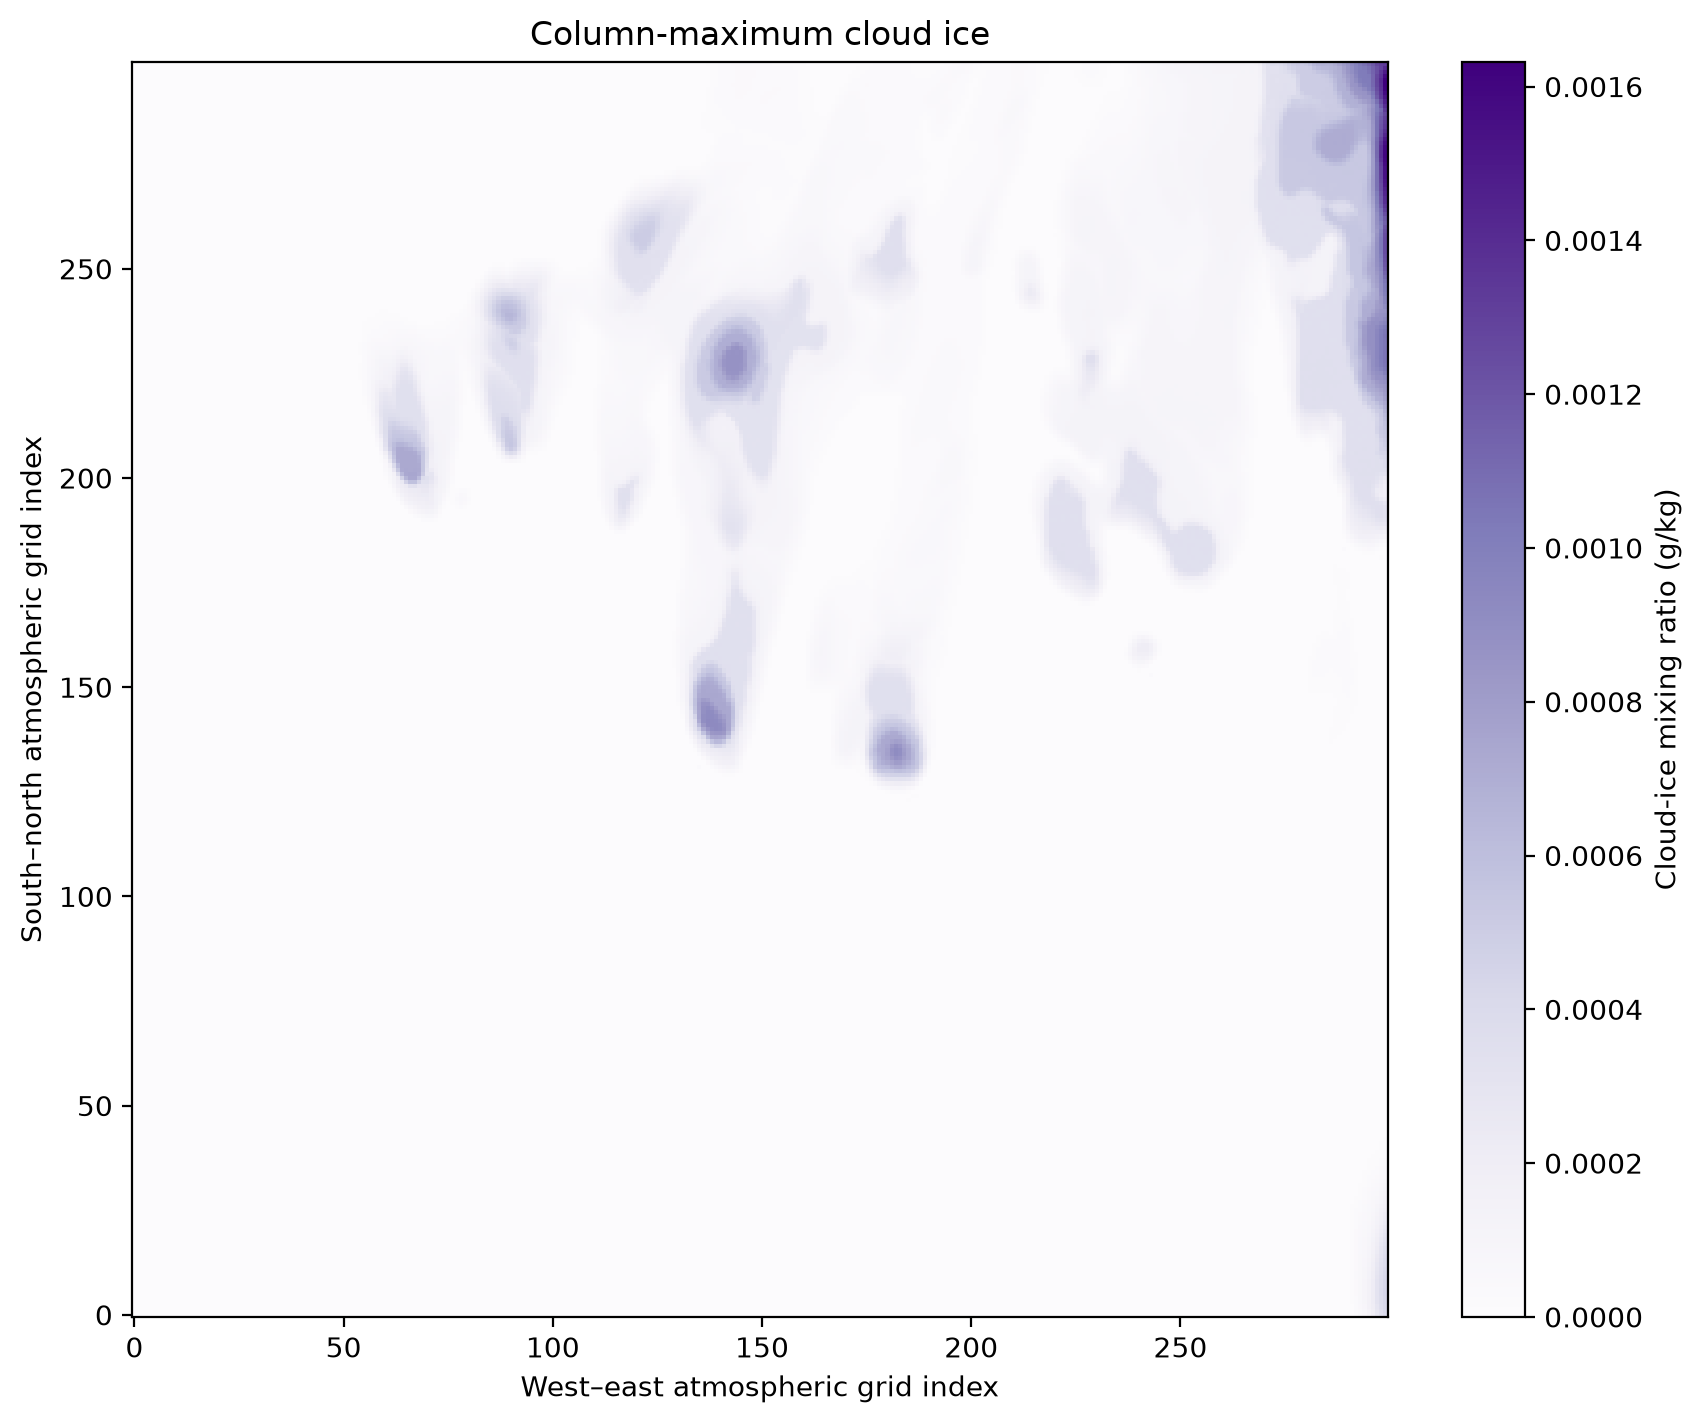
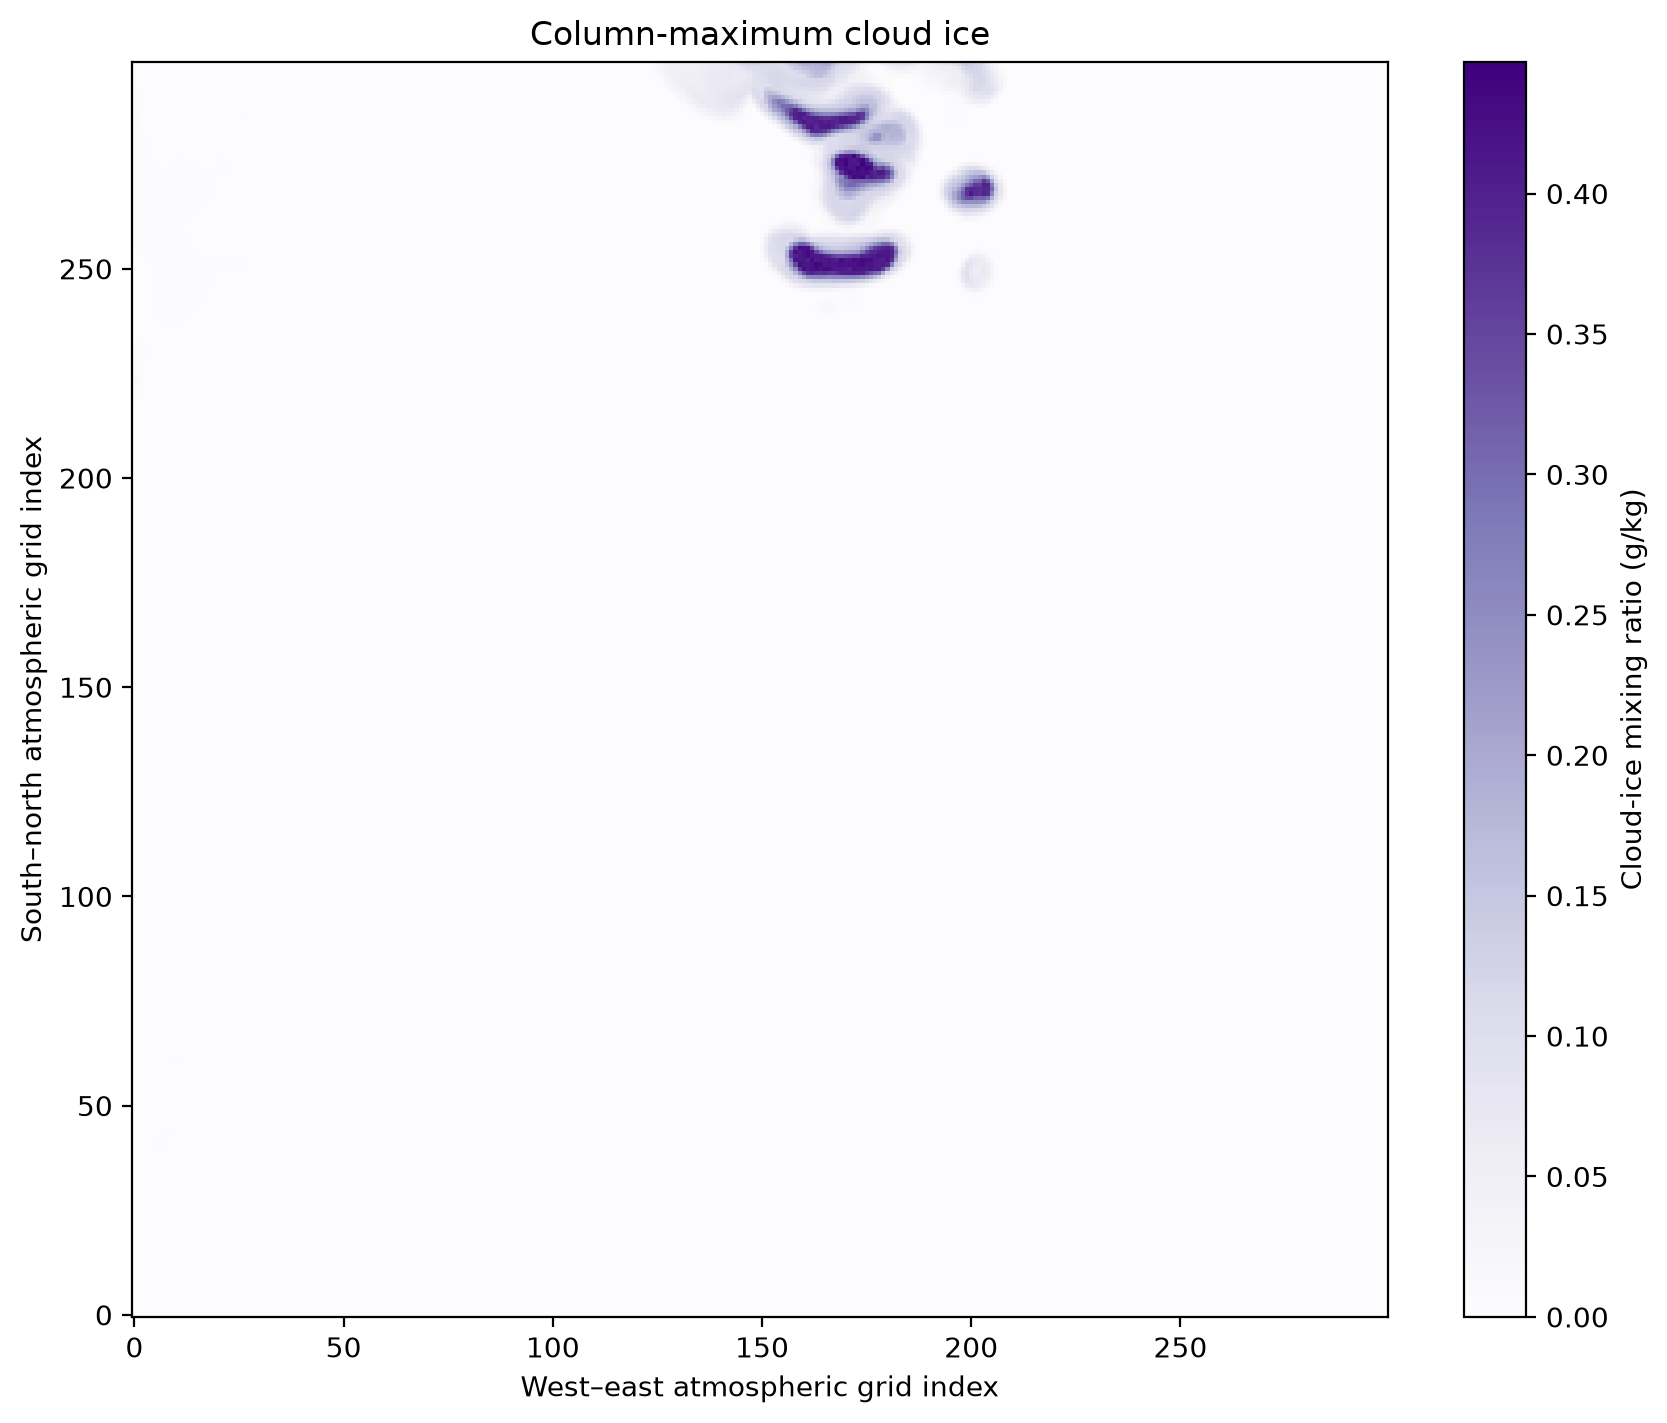
Re-did graphs + added cross sectional plots
Ran script on wrong sample

diff --git a/scripts/pyrocb_cross.py b/scripts/pyrocb_cross.py
@@ -1,0 +1,111 @@
+import xarray as xr
+import numpy as np
+import matplotlib.pyplot as plt
+
+filename = "wrfout_d03_last"
+time_index = 0
+y_index = 150
+# y_index = 100
+# y_index = 200
+
+with xr.open_dataset(filename) as ds:
+    snapshot = ds.isel(Time=time_index)
+    # print(snapshot["Times"].values)
+
+    # one row, all heights and x positions
+    w = (
+        snapshot["W"]
+        .isel(south_north=y_index)
+        .transpose("bottom_top_stag", "west_east")
+        .values
+    )
+
+    height = (
+        (
+            snapshot["PH"].isel(south_north=y_index)
+            + snapshot["PHB"].isel(south_north=y_index)
+        )
+        .transpose("bottom_top_stag", "west_east")
+        .values / 9.81 / 1000
+    )
+
+    terrain = (
+        snapshot["HGT"]
+        .isel(south_north=y_index)
+        .values / 1000
+    )
+
+    dx = float(ds.attrs["DX"])
+    distance = np.arange(w.shape[1]) * dx / 1000
+
+    time_values = np.asarray(snapshot["Times"].values).reshape(-1)
+    if time_values.dtype.kind == "S":
+        timestamp = b"".join(time_values.tolist()).decode().strip()
+    else:
+        timestamp = "".join(time_values.astype(str)).strip()
+
+# horizontal coordinates at every vertical level
+x = np.broadcast_to(distance, w.shape)
+# print(w.shape, height.shape)
+
+# same colour range for rising and sinking air
+w_limit = max(float(np.nanmax(np.abs(w))), 0.1)
+# w_limit = 10  # use the same limit when comparing different times
+
+levels = np.linspace(-w_limit, w_limit, 41)
+
+fig, ax = plt.subplots(figsize=(12, 6), constrained_layout=True)
+# fig, ax = plt.subplots(figsize=(10, 5))
+
+image = ax.contourf(
+    x,
+    height,
+    w,
+    levels=levels,
+    cmap="RdBu_r",
+    extend="both",
+)
+
+fig.colorbar(
+    image,
+    ax=ax,
+    label="Vertical velocity (m/s)",
+)
+
+# optional contour separating rising and sinking air
+# ax.contour(x, height, w, levels=[0], colors="black", linewidths=0.5)
+
+ax.fill_between(
+    distance,
+    0,
+    terrain,
+    color="dimgray",
+    label="Terrain",
+    zorder=3,
+)
+
+ax.plot(distance, terrain, color="black", linewidth=0.8, zorder=4)
+
+ax.set_title(
+    f"d03 vertical velocity — south–north index {y_index}\n"
+    f"{timestamp}"
+)
+ax.set_xlabel("Nominal distance along west–east grid slice (km)")
+ax.set_ylabel("Height above sea level (km)")
+
+ax.set_xlim(distance[0], distance[-1])
+ax.set_ylim(0, np.nanmax(height))
+# ax.set_ylim(0, 15)
+# ax.set_xlim(20, 40)
+
+ax.legend(loc="upper right")
+# ax.grid(alpha=0.2)
+
+fig.savefig(
+    "vertical_velocity_cross_section.png",
+    dpi=200,
+    bbox_inches="tight",
+)
+# plt.close(fig)
+
+plt.show()

diff --git a/scripts/pyrocb_graphs.py b/scripts/pyrocb_graphs.py
@@ -4,7 +4,7 @@ import matplotlib.pyplot as plt
 from matplotlib.colors import BoundaryNorm, ListedColormap
 # from matplotlib.colors import LogNorm
 
-filename = "wrfout_d03_output_sample"
+filename = "wrfout_d03_last"
 time_index = 0
 cloud_level = 10
 # cloud_level = 20
